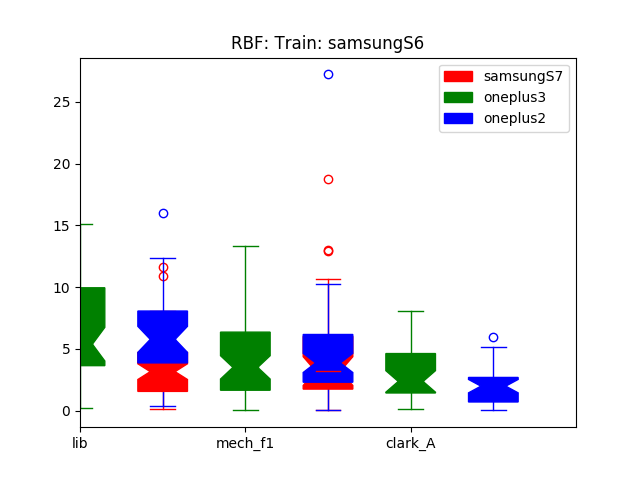
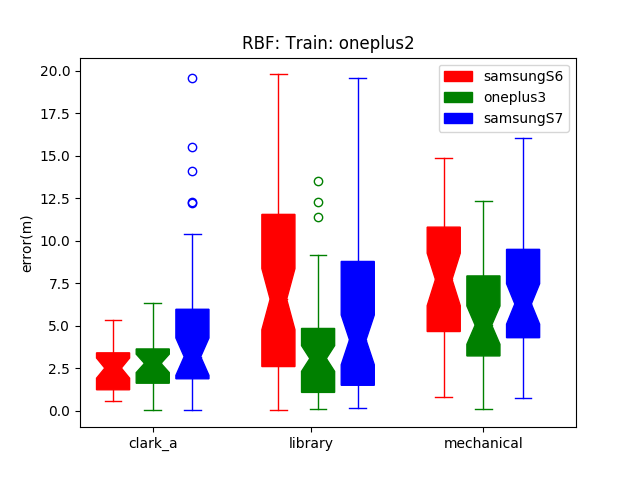
test_bak

diff --git a/main.py b/main.py
@@ -9,6 +9,7 @@ from label_block_size import LABEL_BLOCK_SIZE
 from collections import defaultdict
 from plotter import grouped_places_boxplot_devices
 from threading import Thread
+import csv
 
 # ######### Constants ##########
 
@@ -186,8 +187,7 @@ def do_RBF(place, train_dev, train_run, test_dev, test_run,
     test_df = util_f.set_df_index_begin(test_df)
 
     # make input feature columns list
-    input_cols = list(set(train_df.columns) -
-                      set(['x', 'y', 'position_label']))
+    input_cols = list(set(train_df.columns) - set(['x', 'y', 'position_label']))
     # make output feature column list
     pos_label = 'position_label'
 
@@ -226,22 +226,19 @@ def do_RBF(place, train_dev, train_run, test_dev, test_run,
 
     return actual_pos, found_pos
 
-# global var
-errors = defaultdict(lambda: defaultdict(dict))
-def do_RBF_all(place_list):
+
+def do_RBF_all(place_list=None):
     """
     run RBF on all devices,
     :returns: dict{place}{dev_train}{dev_test} => list
     """
-    global errors
-    # errors = defaultdict(lambda: defaultdict(dict))
+    errors = defaultdict(lambda: defaultdict(dict))
 
     if not place_list:
         print("place list not given!")
         place_list = Place.list_all[1:]
     else:
         print(place_list)
-
 
     # ignore lg and bc_infill
     for p in place_list:
@@ -264,26 +261,89 @@ def do_RBF_all(place_list):
     return errors
 
 
+def write_to_file(filename, ddd_dict):
+    cols = 'place, device_train, device_test'
+    for i in range(100):
+        cols += ', err'+str(i)
+
+    place_groups = list(ddd_dict.keys())
+
+    train_devices = list(ddd_dict[place_groups[0]].keys())
+
+    test_devices = list(ddd_dict[place_groups[0]][train_devices[0]].keys())
+
+    print(place_groups, train_devices, test_devices)
+
+    f = open(filename, 'w')
+    f.write(cols + "\n")
+    for p in place_groups:
+        for d1 in train_devices:
+            for d2 in test_devices:
+
+                if d1 == d2:
+                    continue
+
+                f.write(p + ", " + d1 + ", " + d2 + ", ")
+                str_dat = [str(x) for x in ddd_dict[p][d1][d2]]
+                f.write(", ".join(str_dat) + "\n")
+    f.close()
+
+
+def read_from_file(filename):
+    errors = defaultdict(lambda: defaultdict(dict))
+
+    lines = []
+    with open(filename) as f:
+        lines = f.readlines()
+
+    for line in lines[1:]:
+
+        line_list = line.replace(" ", "").strip("\n").split(",")
+        p = line_list[0]
+        d1 = line_list[1]
+        d2 = line_list[2]
+        "".strip()
+        data = [float(x) for x in line_list[3:]]
+
+        errors[p][d1][d2] = data
+
+    return errors
+
 if __name__ == "__main__":
 
-    global errors
+    # global errors
     # do_RBF_all()
     # num_threads = 2
-    
-    t = Thread(target=do_RBF_all, args=[[Place.list_all[1]]] )
-    t.start()
 
-    t1 = Thread(target=do_RBF_all, args=[[Place.list_all[2]]] )
-    t1.start()
+    # t = Thread(target=do_RBF_all, args=[[Place.list_all[1]]] )
+    # t.start()
+    #
+    # t1 = Thread(target=do_RBF_all, args=[[Place.list_all[2]]] )
+    # t1.start()
+    #
+    # t3 = Thread(target=do_RBF_all, args=[[Place.list_all[3]]] )
+    # t3.start()
+    #
+    # t.join()
+    # t1.join()
+    # t3.join()
 
-    t3 = Thread(target=do_RBF_all, args=[[Place.list_all[3]]] )
-    t3.start()
+    errors = do_RBF_all()
 
-    t.join()
-    t1.join()
-    t3.join()
+    write_to_file('results.csv', errors)
 
-    grouped_places_boxplot_devices(errors)
+
+    # write_to_file('results.csv', errors)
+    # errors = read_from_file('results.csv')
+    #
+    # place_groups = list(errors.keys())
+    # # print(place_groups)
+    #
+    # train_devices = list(errors[place_groups[0]].keys())
+    # #
+    # test_devices = list(errors[place_groups[0]][train_devices[0]].keys())
+    # print(place_groups, train_devices, test_devices)
+    # grouped_places_boxplot_devices()
 
 
     # print("\n\n")

diff --git a/plotter.py b/plotter.py
@@ -42,17 +42,17 @@ def grouped_places_boxplot_devices(data_dict):
     data = [A, B, C]
     sp = 0
     for i, d in enumerate(data):
-        plt.boxplot(d, positions=[1+sp, 2+sp, 3+sp], notch=True, patch_artist=True,
+        plt.boxplot(d, positions=[1+sp, 3.5+sp, 6+sp], notch=True, patch_artist=True,
                     boxprops=dict(facecolor=c[i], color=c[i]),
                     capprops=dict(color=c[i]),
                     whiskerprops=dict(color=c[i]),
                     flierprops=dict(color=c[i], markeredgecolor=c[i]),
                     medianprops=dict(color=c[i]),
                     )
-        sp +=0.50
+        sp += .60
 
-    plt.xlim(0.5, 7)
-    plt.xticks([1.5, 2.5, 3.5], place_groups)
+    plt.xlim(0.5, 8)
+    plt.xticks([1.6, 4, 6.6], ['clark_a', 'library', 'mechanical'])
 
     patches = []
     for i, dev in enumerate(test_devices):
@@ -60,6 +60,8 @@ def grouped_places_boxplot_devices(data_dict):
         patches.append(patch)
 
     plt.legend(handles=patches)
+
+    plt.ylabel("error(m)")
 
     plt.title("RBF: Train: "+str(train_devices[0]))
 
